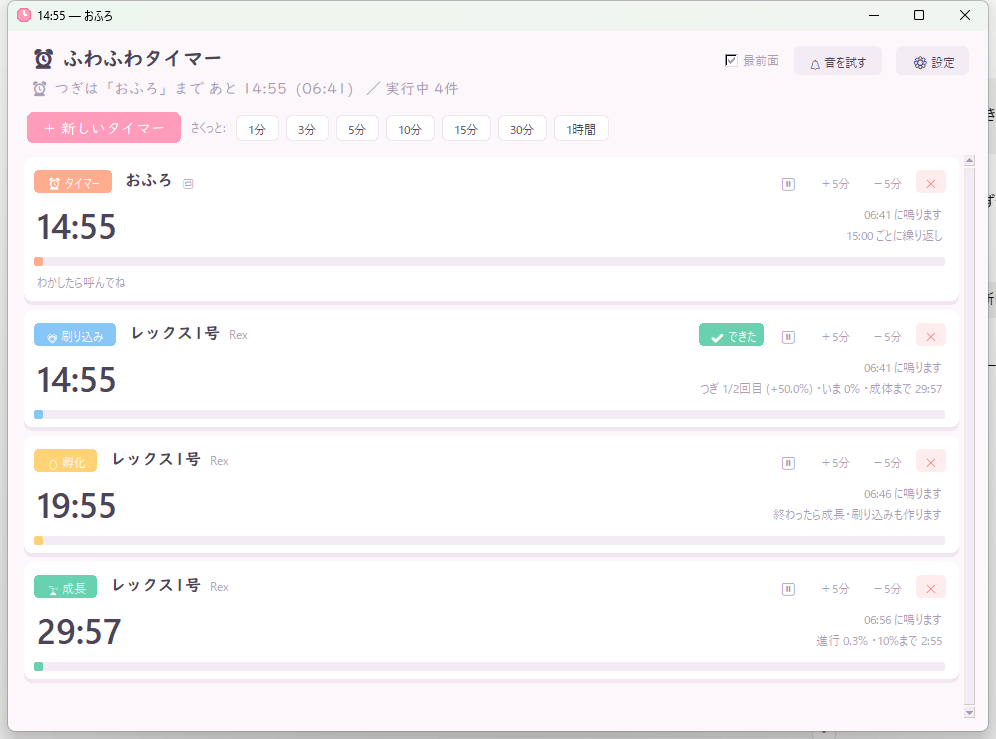
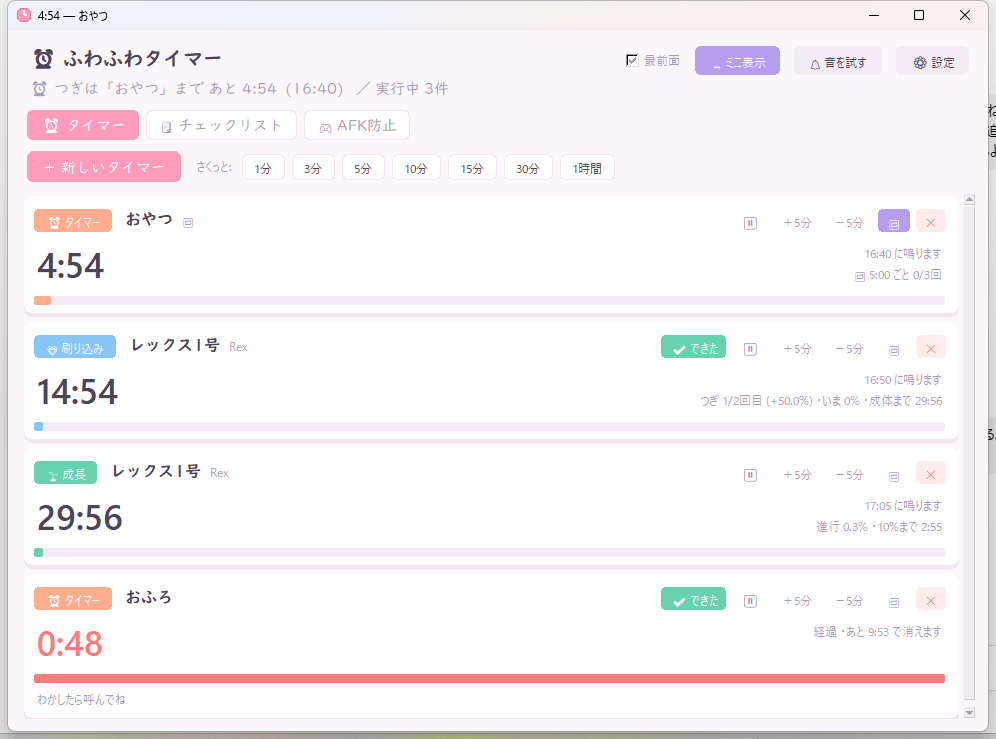
終わったタイマーの片づけ: 自動削除と「✔ できた」
完了したタイマーがずっと残るのをやめる。

- 終わってから一定時間で自動削除(既定10分)。設定の⏰タイマータブで
  「◯分たったら自動で消す」/「✔できたを押したときだけ消す」を選べる
- 終わったタイマーのカードに「✔ できた」ボタンを出す。押すとその場で消える
  (ミニ表示の行にも ✔ を追加。刷り込み待ちの行では次の回へ進む)
- カードに「あと 9:58 で消えます」と残り時間を表示
- 自動では消さないもの: 刷り込みの✔待ち / くり返し中 / 一時停止中
- 起動前に終わっていた分は、起動時刻から数えて猶予を与える
  (開いた瞬間に消えて何が終わったのか分からなくなるのを防ぐ)

diff --git a/ark_breeding_timer.py b/ark_breeding_timer.py
@@ -32,7 +32,7 @@ import theme as th
 from afk_page import AfkPage
 
 APP_NAME = "ARK Breeding Timer"
-APP_VERSION = "1.7.0"
+APP_VERSION = "1.8.0"
 
 
 def _res_dir():
@@ -77,6 +77,8 @@ DEFAULT_CONFIG = {
     "auto_chain": True,
     # 操作
     "confirm_delete": True,   # ✕ を押したとき確認するか
+    "auto_clear_done": True,  # 終わったタイマーを自動で消すか
+    "auto_clear_sec": 600,    # 終わってから何秒で消すか
     "quick_buttons": [        # 「さくっと」のワンクリックボタン（設定で変えられる）
         {"label": "1分", "sec": 60},
         {"label": "3分", "sec": 180},
@@ -959,6 +961,15 @@ class MiniWindow(tk.Toplevel):
                         bg=th.CARD, padx=8, pady=4)
         b_repeat.pack(side="left", padx=(0, 6))
 
+        # 刷り込み待ちなら「次の回へ」、終わったタイマーなら「片づける」
+        if t.kind == "imprint" and t.imp_index < t.imp_count:
+            if t.done and t.remaining() <= 0:
+                Pill(ctl, "✔", lambda tt=t: self.app.imprint_next(tt), bg=th.CARD,
+                     padx=8, pady=4).pack(side="left", padx=(0, 6))
+        elif t.done and not t.paused and t.remaining() <= 0:
+            Pill(ctl, "✔", lambda tt=t: self.app.remove_timer(tt.id), bg=th.CARD,
+                 padx=8, pady=4).pack(side="left", padx=(0, 6))
+
         # %表示を先に確保してから、残りをスライダーに広げる
         # （expand=True を先に pack すると余白を全部持っていってしまう）
         pct = tk.Label(ctl, text="", bg=th.CARD, fg=th.INK_SUB, font=th.F["small"],
@@ -1031,6 +1042,8 @@ class App(tk.Tk):
         self.afk_next = 0.0
         self.afk_count = 0
         self.afk_why = ""
+        # 起動前に終わっていたタイマーを開いた瞬間に消さないための基準時刻
+        self.start_ts = time.time()
         # チェックリストは本体とミニ表示で同じものを見せるので App が持つ
         self.checklist_items = load_checklist()
         self.checklist_pages = []
@@ -1268,6 +1281,29 @@ class App(tk.Tk):
         self.rebuild_list()
         self.save_timers()
 
+    # ---- 終わったタイマーの自動そうじ ----
+    def clear_at(self, t: BreedTimer):
+        """このタイマーが自動で消える時刻。消えないものは None。"""
+        if not self.cfg.get("auto_clear_done", True):
+            return None
+        if not t.done or t.paused or t.repeat:
+            return None
+        if t.kind == "imprint" and t.imp_index < t.imp_count:
+            return None   # 「✔ できた」待ちなので残す
+        span = max(10, int(self.cfg.get("auto_clear_sec", 600) or 600))
+        # 起動前に終わっていた分は、起動から数えて猶予をあげる
+        return max(t.end_ts, self.start_ts) + span
+
+    def _auto_clear(self, now):
+        due = [t for t in self.timers
+               if (at := self.clear_at(t)) is not None and now >= at]
+        if not due:
+            return
+        gone = {t.id for t in due}
+        self.timers = [t for t in self.timers if t.id not in gone]
+        self.rebuild_list()
+        self.save_timers()
+
     def rebuild_list(self):
         for c in self.cards.values():
             c.destroy()
@@ -1337,6 +1373,7 @@ class App(tk.Tk):
         if changed:
             self.save_timers()
             self.rebuild_list()
+        self._auto_clear(now)
         for c in self.cards.values():
             c.update_view(now)
         if self.mini is not None and self.mini.winfo_exists():
@@ -1631,6 +1668,10 @@ class TimerCard(th.Card):
             th.RoundButton(btns, "✔ できた", lambda: app.imprint_next(t), kind="mint",
                            bg=th.CARD, font=F["small"], padx=12,
                            pady=5).pack(side="right", padx=2)
+        elif t.done and not t.paused and t.remaining() <= 0:
+            # 終わったタイマーは「できた」で片づける（自動で消えるのを待たなくていい）
+            th.RoundButton(btns, "✔ できた", self.on_ack, kind="mint", bg=th.CARD,
+                           font=F["small"], padx=12, pady=5).pack(side="right", padx=2)
 
         mid = tk.Frame(b, bg=th.CARD)
         mid.pack(fill="x", pady=(4, 0))
@@ -1660,6 +1701,10 @@ class TimerCard(th.Card):
         if self.app.ask_delete(self.t.label or "むめい"):
             self.app.remove_timer(self.t.id)
 
+    def on_ack(self):
+        """「できた」= 確認したので片づける。終わったものなので確認は挟まない。"""
+        self.app.remove_timer(self.t.id)
+
     def edit_repeat(self):
         RepeatDialog(self.app, self.t, parent=self.winfo_toplevel())
 
@@ -1683,7 +1728,11 @@ class TimerCard(th.Card):
             over = -rem
             self.lbl_time.config(text="0:00" if over < 1 else fmt_dur(over), fg=th.RED)
             self.btn_pause.set_text("⏸")
-            self.lbl_eta.config(text="おわりました" if over < 1 else "経過")
+            text = "おわりました" if over < 1 else "経過"
+            at = self.app.clear_at(t)
+            if at is not None:
+                text += " ・あと %s で消えます" % fmt_dur(max(0.0, at - now))
+            self.lbl_eta.config(text=text)
         else:
             self.lbl_time.config(text=fmt_dur(rem),
                                  fg=th.PINK_DK if rem <= 60 else th.INK)
@@ -2445,6 +2494,34 @@ class SettingsDialog(tk.Toplevel):
         tk.Label(bar, text="長さは 5:00 / 25m / 90（=90分）", bg=th.CARD,
                  fg=th.INK_SUB, font=F["small"]).pack(side="left", padx=6)
 
+        tk.Label(f, text="終わったタイマーの片づけかた", bg=th.CARD, fg=th.INK,
+                 font=F["cute_b"]).pack(anchor="w")
+        self.v_autoclear = tk.BooleanVar(
+            value=bool(self.app.cfg.get("auto_clear_done", True)))
+        arow = tk.Frame(f, bg=th.CARD)
+        arow.pack(anchor="w", pady=(2, 0))
+        tk.Radiobutton(arow, text="終わってから", variable=self.v_autoclear,
+                       value=True, bg=th.CARD, fg=th.INK, activebackground=th.CARD,
+                       activeforeground=th.INK, selectcolor=th.FIELD,
+                       font=F["cute"], bd=0, highlightthickness=0).pack(side="left")
+        self.v_clear_min = tk.StringVar(
+            value="%g" % (int(self.app.cfg.get("auto_clear_sec", 600) or 600) / 60.0))
+        th.soft_entry(arow, self.v_clear_min, width=5).pack(side="left", padx=6,
+                                                            ipady=3)
+        tk.Label(arow, text="分たったら自動で消す", bg=th.CARD, fg=th.INK,
+                 font=F["cute"]).pack(side="left")
+        tk.Radiobutton(f, text="「✔ できた」を押したときだけ消す（自動では消さない）",
+                       variable=self.v_autoclear, value=False, bg=th.CARD,
+                       fg=th.INK, activebackground=th.CARD, activeforeground=th.INK,
+                       selectcolor=th.FIELD, font=F["cute"], bd=0,
+                       highlightthickness=0, anchor="w").pack(anchor="w")
+        tk.Label(f, text="どちらでも、終わったタイマーには「✔ できた」ボタンが出ます。"
+                         "刷り込みの「✔ できた」待ち・くり返し中・一時停止中は自動では"
+                         "消えません。起動前に終わっていた分は、起動してからこの時間だけ"
+                         "残ります（最短10秒）",
+                 bg=th.CARD, fg=th.INK_SUB, font=F["small"],
+                 wraplength=520, justify="left").pack(anchor="w", pady=(2, 12))
+
         tk.Label(f, text="消すとき", bg=th.CARD, fg=th.INK,
                  font=F["cute_b"]).pack(anchor="w")
         self.v_confirm = tk.BooleanVar(
@@ -2533,6 +2610,8 @@ class SettingsDialog(tk.Toplevel):
             self.app.cfg["prewarn_sec"] = max(0, int(float(self.v_pre.get())))
             self.app.cfg["popup_close_prewarn"] = max(0, int(float(self.v_pc_pre.get())))
             self.app.cfg["popup_close_done"] = max(0, int(float(self.v_pc_done.get())))
+            self.app.cfg["auto_clear_sec"] = max(
+                10, int(float(self.v_clear_min.get()) * 60))
         except ValueError:
             messagebox.showwarning(APP_NAME, "倍率は0より大きい数字で入れてください",
                                    parent=self)
@@ -2545,6 +2624,7 @@ class SettingsDialog(tk.Toplevel):
         c = self.app.cfg
         c["quick_buttons"] = quick
         c["confirm_delete"] = bool(self.v_confirm.get())
+        c["auto_clear_done"] = bool(self.v_autoclear.get())
         c["gestation_uses_hatch_mult"] = bool(self.v_gest.get())
         c["sound"] = bool(self.v_sound.get())
         c["popup"] = bool(self.v_popup.get())
